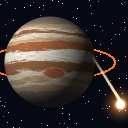
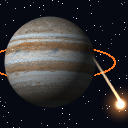
Shear hills at the crater edge into a rubble slope; fix world effects access
Terrain just outside the planed zone is cut back into a slope rising from the
rim, so big craters no longer leave sheer walls. The status card and icon are
regenerated from the NASA maps, and the obsolete procedural planet generator
is gone.

Claude-Session: https://claude.ai/code/session_01UdhjMViyq5z9KCGtvMumdu

Changed region(s): [[0.0312, 0.1562, 0.6875, 0.7188]]

diff --git a/src/main/java/io/github/kortev/shootingstar/strike/ImpactBuilder.java b/src/main/java/io/github/kortev/shootingstar/strike/ImpactBuilder.java
@@ -224,6 +224,18 @@ public final class ImpactBuilder {
 	private void scorch(int x, int z, double dist, int surface) {
 		double heat = 1.0 - (dist - radius) / (double) (scorchRadius - radius);
 		int y = surface;
+		// Hills just outside the zone are sheared into a rubble slope rising from the rim, not left as a sheer wall.
+		int slope = (int) Math.round(center.getY() + 2.0 + (dist - radius) * 1.3 + noise(x * 2, z * 2) * 2.5);
+		if (surface > slope) {
+			int ceiling = Math.min(surface, center.getY() + MAX_CUT);
+			for (int cut = ceiling; cut > slope; cut--) {
+				vaporize(x, cut, z);
+			}
+			if (!world.getBlockState(cursorPos.set(x, slope, z)).isAir()) {
+				set(x, slope, z, heat > 0.45 && random.nextFloat() < heat ? debris() : Blocks.COBBLED_DEEPSLATE.getDefaultState());
+			}
+			y = slope;
+		}
 		int bottom = world.getBottomY();
 		// Strip leaves, plants, snow and glass from the top of the column.
 		for (int guard = 0; guard < 28 && y > bottom; guard++) {

diff --git a/tools/gen_textures.py b/tools/gen_textures.py
@@ -263,8 +263,8 @@ def main():
         save(crust(heat), 'block', 'molten_crust_%d.png' % heat)
     save(crust(0), 'block', 'fused_crust.png')
     save(uplink_atlas(), 'item', 'gungnir_uplink.png')
-    jupiter_map = Image.open(os.path.join(TEX, 'feed', 'jupiter.png'))
-    earth_map = Image.open(os.path.join(TEX, 'feed', 'earth.png'))
+    jupiter_map = Image.open(os.path.join(TEX, 'feed', 'jupiter.jpg'))
+    earth_map = Image.open(os.path.join(TEX, 'feed', 'earth_day.jpg'))
     save(card(jupiter_map, earth_map), 'gui', 'gungnir_card.png')
     icon(jupiter_map).save(os.path.join(ROOT, 'icon.png'), optimize=True)
     print('textures written')

diff --git a/src/client/java/io/github/kortev/shootingstar/client/world/ImpactScene.java b/src/client/java/io/github/kortev/shootingstar/client/world/ImpactScene.java
@@ -123,6 +123,11 @@ public final class ImpactScene {
 		sampleSprites(client, world);
 	}
 
+	/** Ticks since the hit, with the partial tick. */
+	public double time(float tickDelta) {
+		return age + tickDelta;
+	}
+
 	public boolean done() {
 		return age > LIFETIME || age > 400 && chunks.isEmpty() && puffs.isEmpty() && sparks.isEmpty();
 	}
@@ -148,7 +153,7 @@ public final class ImpactScene {
 	}
 
 	/** When the shock reaches {@code distance}; past the dust wave it travels at the speed of sound. */
-	double arrival(double distance) {
+	public double arrival(double distance) {
 		if (distance <= 0) {
 			return 0;
 		}

diff --git a/src/client/java/io/github/kortev/shootingstar/client/camera/ScreenShake.java b/src/client/java/io/github/kortev/shootingstar/client/camera/ScreenShake.java
@@ -41,7 +41,7 @@ public final class ScreenShake {
 			}
 			ImpactScene scene = strike.scene;
 			if (strike.impacted && scene != null) {
-				double e = scene.age + tickDelta;
+				double e = scene.time(tickDelta);
 				double felt = strike.cinematic() ? 1.0 : near;
 				double hit = felt * 2.4 * Math.exp(-Math.max(0.0, e) / 5.0);
 				double late = e - scene.arrival(distance);
